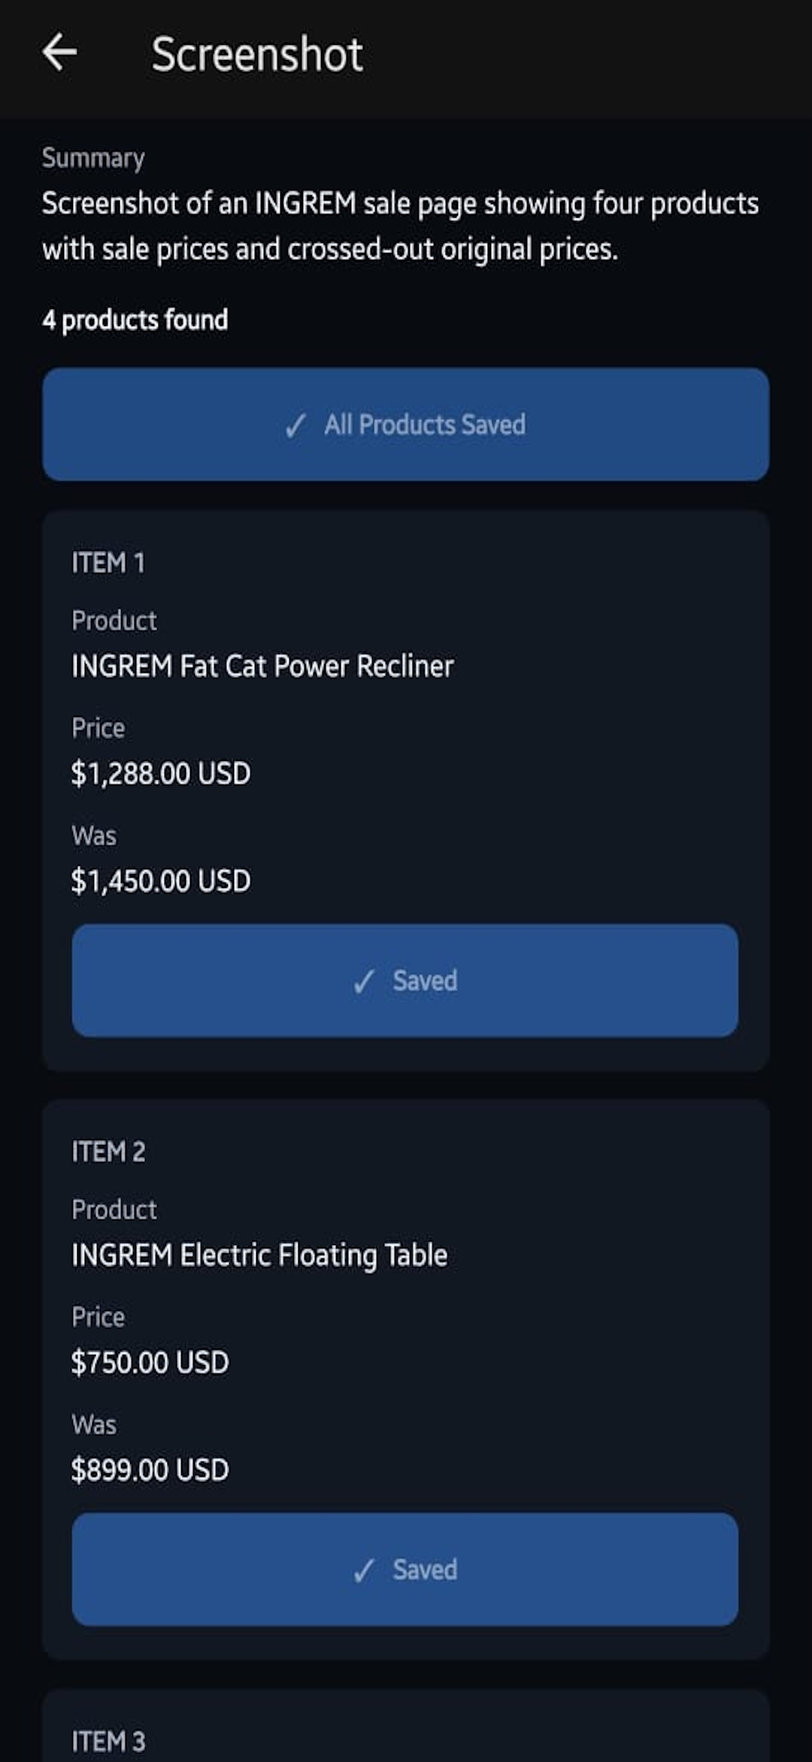
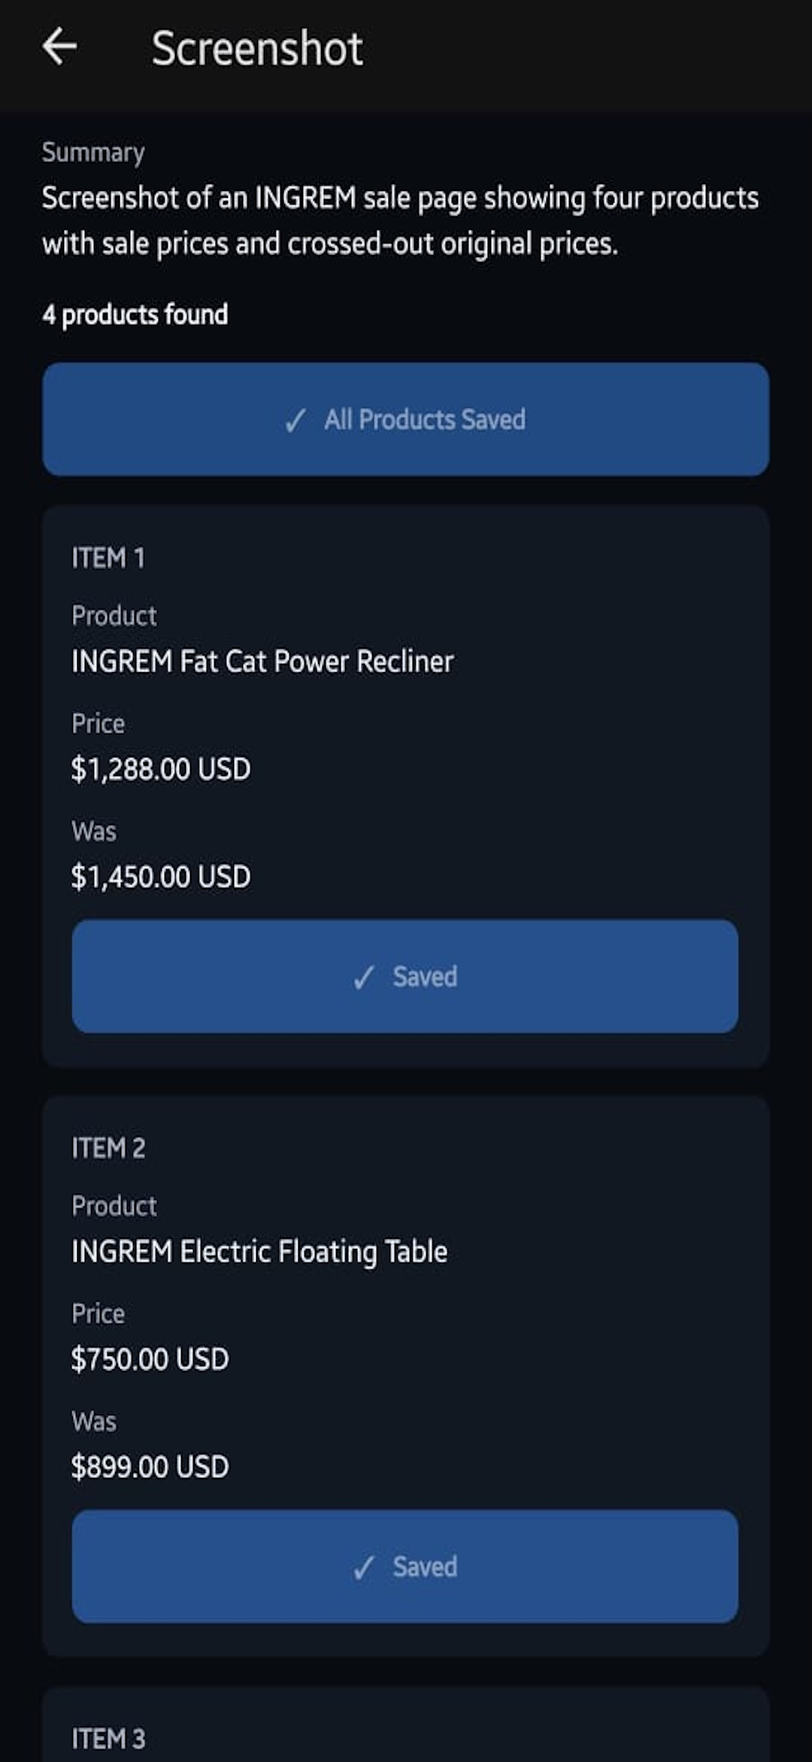
Updated the documentation

diff --git a/docs/submission.md b/docs/submission.md
@@ -1,35 +1,41 @@
 # Recall — RevenueCat Shipaton 2026 Next Gen Submission
 
 **Category:** Next Gen Award only.  
-**Deadline:** September 30, 2026 at **11:45 PM PDT** = October 1, 2026 at **7:45 AM WAT (Lagos)**. Submit ahead of the deadline.  
+**Submission:** Creator-confirmed as submitted September 27, 2026.  
+**Competition deadline:** September 30, 2026 at **11:45 PM PDT** = October 1, 2026 at **7:45 AM WAT (Lagos)**.  
 **Official rules:** https://revenuecat-shipaton-2026.devpost.com/rules  
-**Project source:** https://github.com/Ajayfrizzy/recall-app
+**Project source:** https://github.com/Ajayfrizzy/recall-app  
+**Submitted demonstration:** https://vimeo.com/1230602934  
+**Devpost project page:** Not supplied for inclusion in this record.
 
 The Next Gen category accepts a **public open-source repository with a license and an under-two-minute demonstration** in place of a published app-store listing. A paid Google/Apple developer account, Play Store release, and standalone judge APK are **not required** for this category. Active student enrollment and a qualifying academic/student email on Devpost are essential; verify eligibility and all final form fields against the official rules.
 
-## Essential submission checklist
+## Submission record — September 27, 2026
 
-- [x] Confirm active student status, qualifying Devpost academic/student email and Next Gen-only category selection.
-- [x] Complete the public Devpost project page and all required English fields before the deadline.
-- [x] Verify the GitHub repository is visible while logged out, includes the actual source, setup instructions and a visible MIT `LICENSE` file; check Git history for secrets and private screenshots.
-- [x] Record and edit an Android demonstration with the creator's human narration, approximately 1:42. **Prepared locally, publication pending.**
-- [x] Review the exact final MP4: real product behavior and RevenueCat integration are visible; voice-over matches the scene; no live tokens, invitation codes, notifications, personal information or unauthorized media are exposed.
-- [x] Upload the approved final demo to **public or judge-accessible unlisted YouTube/Vimeo** and verify it from a logged-out browser. **Public video URL: TO ADD AFTER UPLOAD.**
-- [x] Prepare a **1024 × 1024 PNG** Recall icon and **1179 × 2556 PNG** Android screenshots without device frames. **Prepared locally; commit to the repo and recheck image dimensions.**
-- [x] Upload the app icon and at least one correctly sized, frame-free screenshot to the Devpost submission; choose screenshots that clearly demonstrate the app.
-- [x] Complete the project description, explicitly explain the RevenueCat offering/paywall, `pro` entitlement, subscription restoration, Free/Pro limits, and time-limited promotional judge access.
-- [x] Confirm any required RevenueCat project ID and other Devpost fields in the actual form, without adding secret API keys.
-- [x] Review final assets, category selection and all links; submit the entry and verify the submitted-project page.
+**Status: SUBMITTED (creator-confirmed).** The creator confirmed completion of the Devpost submission after filling out the entry, providing the Vimeo link and preparing the submitted screenshots and icon. The final Devpost project-page URL has not been supplied, so this record does not claim an independent review of every saved form field or media attachment.
 
-**Optional, separate from required Next Gen materials:** An EAS standalone APK and private judge invitation may help reviewers test Recall, but share them only after clean-install and public-backend checks pass. Do not claim a promotional Pro grant is a paid store purchase.
+| Submission component | Recorded status |
+| --- | --- |
+| Competition category | Next Gen Award only, as selected for Recall. |
+| Devpost entry | **Submitted**, confirmed by the creator September 27, 2026. |
+| Project title | Recall. |
+| Narrated video | [Vimeo upload complete](https://vimeo.com/1230602934); prepared running time approximately 1:42. |
+| Source code | [Public GitHub repository](https://github.com/Ajayfrizzy/recall-app), MIT-licensed. |
+| Images | Icon and seven submission screenshots committed under `docs/assets/submission/`; creator confirmed completing the entry's media workflow. |
+| RevenueCat integration | Default offering, managed paywall, `pro` entitlement, purchases and restore flow; AI access is invitation-protected separately from Pro. |
+| Store release | Not required for this Next Gen entry; Recall was not represented as published on Google Play. |
+| Optional judge APK | Not supplied as a verified distribution artifact. |
+| Privacy policy | Pre-publication draft with confirmed operator and contact; outstanding retention/request procedures and legal review remain clearly identified. |
+
+**Post-submission housekeeping (optional, not outstanding competition-entry requirements):** Save the Devpost confirmation and project-page URL when available, retain the exact submitted media and source revision, and avoid describing later builds as the original submitted build. Any future downloadable judge APK should first pass the standalone and invitation tests in [Release QA](./release-qa.md).
 
 ## Submission assets
 
-Use `docs/assets/submission/` to store the finalized icon and screenshot PNGs in Git. Descriptive filenames such as `icon.png`, `relevant-now.png`, `library.png`, `upcoming.png`, `products.png`, `smart-bundles.png` and `pro-paywall.png` are suitable **only when those names match the actual images**. Keep app-runtime assets under `assets/` separate. Avoid placeholder images, debug IDs, personal screenshots and inappropriate subscription-platform wording. Do not imply local media is already committed or uploaded to Devpost.
+The corrected icon and seven screenshots are committed under [`docs/assets/submission/`](./assets/submission/): `icon.png`, `Screenshot1.jpeg`, `Screenshot2.jpeg`, `Screenshot3.jpeg`, `Screenshot4.jpeg`, `Screenshot5.jpeg`, `Screenshot6.png` and `Screenshot7.jpeg`. Keep app-runtime assets under `assets/` separate. The creator confirmed completing the Devpost submission. This documentation does not independently inventory which of the seven repository screenshots appear in the published gallery.
 
-Prepared local recording: `Recall_Shipaton_Demo_Human_Voice.mp4` (approximately 1:42). **Public video URL:** not supplied. See [demo guide](./demo-script.md) for the scene sequence and final playback/privacy checks.
+Submitted Vimeo demonstration: [Recall narrated Android walkthrough](https://vimeo.com/1230602934) (prepared runtime approximately 1:42). See [demo guide](./demo-script.md) for the intended scene sequence and media record.
 
-## Copy-ready Devpost project description
+## Project-description archive
 
 ### Tagline
 
@@ -61,20 +67,10 @@ The implementation addresses multiple products in one screenshot, ambiguous date
 
 ### Why Next Gen
 
-Recall is entered in the **Next Gen Award**, the student-only category that evaluates a working mobile demonstration, a public open-source repository, thoughtful technical choices and thoughtful RevenueCat monetization without requiring a paid developer account or a published store listing.
+Recall was submitted to the **Next Gen Award**, the student-only category that evaluates a working mobile demonstration, a public open-source repository, thoughtful technical choices and thoughtful RevenueCat monetization without requiring a paid developer account or a published store listing.
 
-## Evidence and remaining tasks
+## Current limits and post-submission notes
 
-| Item | Status based on supplied documents and conversation |
-| --- | --- |
-| Android implementation and RevenueCat integration | Implemented; see [architecture](./architecture.md). |
-| Public HTTPS backend `/health` | Reported verified September 26; this is not end-to-end fresh-install proof. |
-| Final edited and human-narrated video | Prepared locally, approximately 1:42; final playback and public upload still require confirmation. |
-| Required-size icon and screenshots | Prepared locally; verify actual final files are committed under `docs/assets/submission/` before checking repository asset placement. |
-| Privacy-policy draft | Operator/contact supplied; retention and request-handling procedure and legal review remain unresolved. |
-| Student/academic-email eligibility | Verify in Devpost; do not infer from app development. |
-| Public repository and LICENSE visibility | Check logged-out access before submission. |
-| Public video URL and final Devpost submission | Not yet supplied or verified. |
-| Optional standalone APK and clean judge installation | Do not mark passed until the checks in [Release QA](./release-qa.md) are documented. |
+The entry is submitted. The latest source and submitted demonstration should not be presented as a verified standalone APK: the previously documented clean-install and first-time judge tests remain separate optional QA work. The privacy policy remains a pre-publication draft and does not claim automatic backend deletion or a completed backend deletion-request workflow. Preserve the submitted entry and media as a reference if development continues.
 
-Useful internal documents: [Judge guide](./judge-guide.md), [Release QA](./release-qa.md), [Deployment](./deployment.md), [Privacy-policy draft](./privacy-policy.md), [Demo guide](./demo-script.md).
+Useful internal documents: [Judge guide](./judge-guide.md), [Release QA](./release-qa.md), [Deployment](./deployment.md), [Privacy-policy draft](./privacy-policy.md), [Demo record](./demo-script.md).

diff --git a/docs/demo-script.md b/docs/demo-script.md
@@ -1,32 +1,33 @@
-# Recall — Final Next Gen Demo Guide
+# Recall — Submitted Next Gen Demonstration
 
 **Entry:** RevenueCat Shipaton 2026, Next Gen Award (student category).  
-**Prepared asset:** `Recall_Shipaton_Demo_Human_Voice.mp4`, edited Android footage with the creator's own recorded narration. Approximate runtime: **1 minute 42 seconds**.  
-**Publishing status:** The local video has been prepared; a public YouTube/Vimeo URL has **not** been supplied or verified.
+**Submitted demonstration:** [Watch Recall on Vimeo](https://vimeo.com/1230602934). Edited Android footage with the creator's own recorded narration; prepared runtime approximately **1 minute 42 seconds**.  
+**Submission status:** The creator confirmed submission of the Next Gen entry on September 27, 2026.
 
-The final entry should lead with the product problem and working mobile experience, demonstrate RevenueCat's subscription experience, and finish with the student-category context. The Next Gen entry is judged using a public demo and open-source repository; a public store listing is not required. See [submission.md](./submission.md).
+This file records the submitted demonstration and its intended scene sequence. The Next Gen entry uses a public demonstration and open-source repository; a store listing was not required. See [submission.md](./submission.md).
 
 ## Scene order in the edited demonstration
 
-| Sequence | What the footage communicates | Narration topic |
-| --- | --- | --- |
-| 1 | Onboarding and screenshot access | Screenshots are easy to save and easy to forget; Recall turns them into actions. |
-| 2 | Screenshot OCR, optional AI and deadline detection | On-device text recognition and user-authorized AI analysis. |
-| 3 | Create a reminder; inspect Upcoming | The user chooses notification timing. |
-| 4 | Event detection and calendar flow | Save a recognized event to the Android calendar. |
-| 5 | Multi-product extraction | Recognize separate products and prices. |
-| 6 | Smart Bundles and Relevant Now | Group related screenshots and resurface useful information. |
-| 7 | Profile and RevenueCat Pro | Show the genuine Pro entitlement/paywall state; explain that RevenueCat powers subscriptions. |
+| Sequence | What the footage communicates                      | Narration topic                                                                               |
+| -------- | -------------------------------------------------- | --------------------------------------------------------------------------------------------- |
+| 1        | Onboarding and screenshot access                   | Screenshots are easy to save and easy to forget; Recall turns them into actions.              |
+| 2        | Screenshot OCR, optional AI and deadline detection | On-device text recognition and user-authorized AI analysis.                                   |
+| 3        | Create a reminder; inspect Upcoming                | The user chooses notification timing.                                                         |
+| 4        | Event detection and calendar flow                  | Save a recognized event to the Android calendar.                                              |
+| 5        | Multi-product extraction                           | Recognize separate products and prices.                                                       |
+| 6        | Smart Bundles and Relevant Now                     | Group related screenshots and resurface useful information.                                   |
+| 7        | Profile and RevenueCat Pro                         | Show the genuine Pro entitlement/paywall state; explain that RevenueCat powers subscriptions. |
 
-**Important:** This is a scene guide, **not a verbatim transcript** of the final audio or a frame-accurate edit decision list. Compare it to the exported MP4 before publishing. Do not add a statement that is not actually spoken or shown. Do not imply a promotional judge entitlement is a completed Play Store purchase.
+**Important:** This is a scene guide, **not a verbatim transcript** of the final audio or a frame-accurate edit decision list. The actual submitted video is the source of truth for exact timing and narration. Do not add a statement that is not actually spoken or shown. Do not imply a promotional judge entitlement is a completed Play Store purchase.
 
-## Final publication checks
+## Submitted-media record
 
-- [ ] Play the final export from start to finish and verify human narration matches each scene; adjust audio placement if a statement precedes or follows the corresponding footage.
-- [ ] Keep essential footage under 2:00, on the target Android device, and make it viewable on YouTube or Vimeo (public or accessible unlisted, **not private**).
-- [ ] Show genuine AI results; do not misrepresent mocked results or staged purchases.
-- [ ] Check every frame for personal screenshots, live invitations, tokens, API keys, notifications and unauthorized third-party material.
-- [ ] Check the product names, dates, prices and visible subscription state against narration.
-- [ ] Publish the final URL in [submission.md](./submission.md) and Devpost only after testing access from a logged-out browser.
+- **Vimeo:** https://vimeo.com/1230602934
+- **Narration:** Creator-recorded human voice over edited Android footage.
+- **Length:** Approximately 1:42 as recorded during preparation; this document does not independently measure Vimeo playback.
+- **Devpost:** Entry submitted by the creator on September 27, 2026. The Devpost project-page URL has not been supplied.
+- **Integrity:** Do not represent staged purchases, promotional Pro provisioning, or unverified release-APK behavior as paid purchases or completed standalone tests.
+
+If the demonstration is replaced after submission, record the new video URL and explain any differences between the submitted entry and subsequent app changes in [submission.md](./submission.md).
 
 Official reference: [Shipaton 2026 rules](https://revenuecat-shipaton-2026.devpost.com/rules).

diff --git a/README.md b/README.md
@@ -6,12 +6,12 @@ Recall never performs a suggested action or deletes a Gallery item without confi
 
 ## Shipaton 2026 — Next Gen
 
-Recall is entered in the **Next Gen Award** at RevenueCat Shipaton 2026. This category uses a public, licensed source repository and demonstration video rather than requiring a published app-store listing. Entrants must meet the student and academic-email requirements in the [official rules](https://revenuecat-shipaton-2026.devpost.com/rules). The edited demonstration video (with human narration), 1024 × 1024 icon, and 1179 × 2556 submission screenshots have been prepared; public video publication and final Devpost upload must still be confirmed. See the [submission guide](docs/submission.md) and [judge guide](docs/judge-guide.md).
+Recall was **submitted to the Next Gen Award** at RevenueCat Shipaton 2026 on September 27, 2026 (submission confirmed by the creator). This category accepts a public, MIT-licensed repository and demonstration video without requiring an app-store listing. The [narrated demonstration is on Vimeo](https://vimeo.com/1230602934); the icon and seven screenshots are committed under [`docs/assets/submission/`](docs/assets/submission/). The creator also confirmed that the Devpost submission was completed. See the [submission record](docs/submission.md) and [judge guide](docs/judge-guide.md).
 
 ### Submission media
 
-- **Demonstration:** Edited Android walkthrough with human narration, under two minutes. Add its public YouTube or Vimeo URL here once published; the local video file is not a public link.
-- **Images:** The corrected app icon and submission screenshots belong in `docs/assets/submission/` when committed to the repository. The icon is 1024 × 1024 and screenshots are 1179 × 2556, without device frames.
+- **Demonstration:** [Watch the submitted narrated Android demo on Vimeo](https://vimeo.com/1230602934) (approximately 1:42).
+- **Images:** The app icon and seven submission screenshots are committed in [`docs/assets/submission/`](docs/assets/submission/). The creator confirmed submitting the Devpost entry; the exact Devpost gallery selection is not independently documented here.
 - **Optional judge APK:** Provide an installation link only after the standalone build and clean judge activation have passed the [release QA](docs/release-qa.md). The APK is not a prerequisite for this category.
 
 ## Features
@@ -129,14 +129,14 @@ npm run build
 
 ## Builds
 
-The [GitHub Actions workflow](.github/workflows/checks.yml) runs offline checks on pushes and pull requests. A successful GitHub-hosted run is not yet recorded. Native Maestro checks run separately; see [Release QA](docs/release-qa.md#maestro-native-smoke-tests) for setup, commands, and results.
+The [GitHub Actions workflow](.github/workflows/checks.yml) runs offline checks on pushes and pull requests. The attached release QA has no confirmed hosted run; consult current GitHub Actions results before describing CI as passed. Native Maestro checks run separately; see [Release QA](docs/release-qa.md#maestro-native-smoke-tests) for setup, commands, and results.
 
 ```sh
 eas build --profile development --platform android
 eas build --profile preview --platform android
 ```
 
-The `preview` profile creates an internal APK. Run `npm run release:config-check` in the configured preview environment before building. The public backend is deployed, but the final standalone APK and clean first-time judge flow still require release verification.
+The `preview` profile creates an internal APK. Run `npm run release:config-check` in the configured preview environment before building. The public backend is deployed. A standalone APK and clean first-time judge flow are optional and have not been recorded as verified.
 
 ## Access and subscriptions
 
@@ -159,6 +159,10 @@ Invitation administration is documented in the private-operator sections of [Dep
 - AI quality depends on screenshot clarity, OCR quality, connectivity, and provider availability.
 
 Read the [Privacy Policy (pre-publication draft)](docs/privacy-policy.md) before testing with personal screenshots. The identified operator is Oluwaseun Ajao, and privacy requests may be sent to ajayholuwaseun@gmail.com. The publication date, backend retention policy, workable privacy-request procedure, applicable legal review, and geographic availability still require final decisions. No automatic backend deletion or self-service deletion is implemented.
+
+## Submission status
+
+The creator confirmed that the Next Gen Devpost entry was submitted on September 27, 2026, with the narrated Vimeo demonstration and the prepared image assets. The submitted entry is not an app-store release. The Devpost project URL has not been supplied for inclusion here. Changes to the source after submission should not be represented as features shown in the submitted demo unless separately evidenced.
 
 ## Documentation
 

diff --git a/docs/judge-guide.md b/docs/judge-guide.md
@@ -2,18 +2,26 @@
 
 Recall's official Next Gen evaluation materials are the public source repository and a demonstration video. A standalone APK may also be provided as optional supporting material after its clean-install flow is verified.
 
+## Submitted judging materials
+
+- [Narrated Vimeo demonstration](https://vimeo.com/1230602934)
+- [Public source repository and MIT license](https://github.com/Ajayfrizzy/recall-app)
+- [Submitted media and project details](./submission.md)
+
+The Devpost project-page URL has not been supplied for inclusion here. An APK and private invitation are not part of the required Next Gen evidence.
+
 ## Install an optional APK
 
-Before following APK instructions, use the public repository's [README](../README.md) for setup and [submission guide](./submission.md) for the entry's assets. The edited demonstration and image assets are prepared locally; a public video URL and optional APK link have not been supplied or verified. The Next Gen entry does not require a store release or an APK. Contact: **ajayholuwaseun@gmail.com**.
+Before following APK instructions, use the public repository's [README](../README.md) for setup and [submission guide](./submission.md) for the entry's assets. The narrated demonstration is published on [Vimeo](https://vimeo.com/1230602934), the icon and screenshots are committed in the repository, and the creator confirmed submitting the Next Gen Devpost entry on September 27, 2026. No optional APK download link has been supplied or verified. The Next Gen entry does not require a store release or an APK. Contact: **ajayholuwaseun@gmail.com**.
 
-1. Download the APK only from the private or public link included in the Devpost submission.
+1. If the creator separately supplies a tested APK download link, download it only from that authorized link.
 2. On Android, allow installation from that source when prompted, then install Recall.
 3. Open Recall. The APK must run without Metro or a development launcher.
 4. If Android blocks the install, do not disable broader device protections; report the exact message to **ajayholuwaseun@gmail.com**.
 
 ## What the Next Gen submission provides
 
-The required judging materials are the public [source repository](https://github.com/Ajayfrizzy/recall-app), its MIT license, and the under-two-minute Android demo. The final public video URL belongs in [submission.md](./submission.md) once uploaded. A playable APK and private judge invitation are optional extras, not conditions for Next Gen entry.
+The required judging materials are the public [source repository](https://github.com/Ajayfrizzy/recall-app), its MIT license, and the under-two-minute Android demo. Watch the [narrated Android demonstration on Vimeo](https://vimeo.com/1230602934). The same link is recorded in [submission.md](./submission.md). A playable APK and private judge invitation are optional extras, not conditions for Next Gen entry.
 
 ## Try the core flow
 
@@ -54,7 +62,7 @@ Open Cleanup, review each candidate, and select only prepared test screenshots. 
 ## Known testing limits
 
 - The public HTTPS backend is deployed and its health endpoint has been verified. End-to-end AI still depends on the runtime AI switch, quotas, and provider availability.
-- The final standalone APK and clean first-time judge installation were marked pending in the supplied Release QA; do not distribute or describe either as verified unless a later documented test proves it.
+- The supplied Release QA does not establish a tested standalone APK or clean first-time judge installation; do not describe either as verified without further test evidence.
 - AI requires connectivity and may fall back to the on-device result.
 - Access does not transfer between devices and there is no user account.
 - The current submission targets Android; Google Play publication is not required for this Next Gen entry.

diff --git a/docs/privacy-policy.md b/docs/privacy-policy.md
@@ -2,7 +2,7 @@
 
 **Last updated:** September 27, 2026
 
-**Effective date:** Not yet set; to be assign during production/launch date.
+**Effective date:** To be assigned on the date this policy is published.
 
 This draft describes Recall's current implementation and identifies items that must be decided or reviewed before publication. It does not create functionality that Recall does not have. The operator and contact details have been provided, but retention and privacy-request procedures, applicable provider and jurisdictional terms, incident response, change notices, and geographic availability are not finalized. Recall currently has no automatic or self-service backend data deletion.
 
